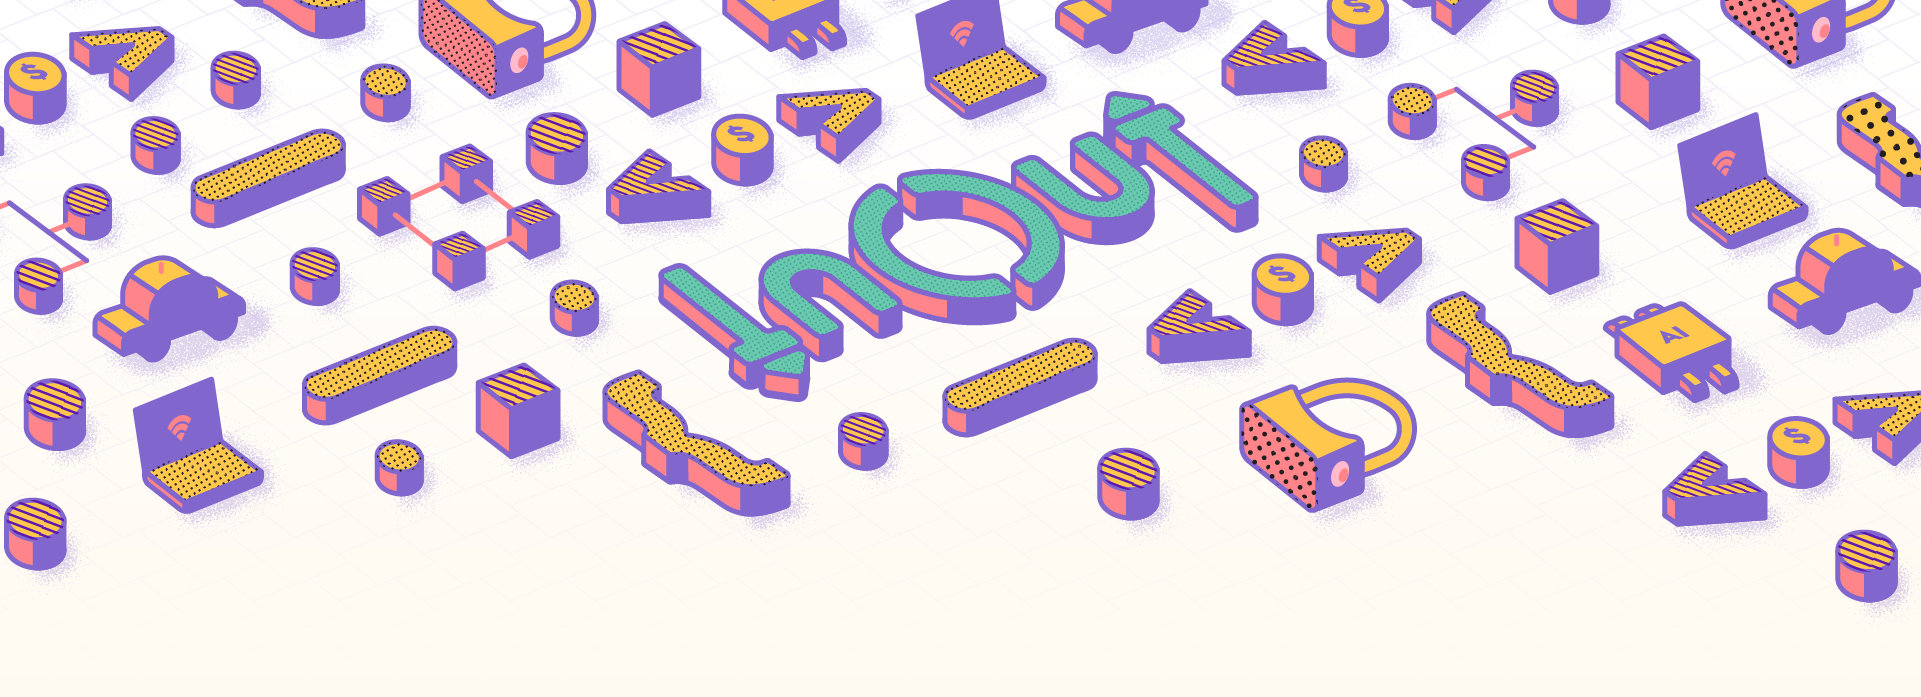
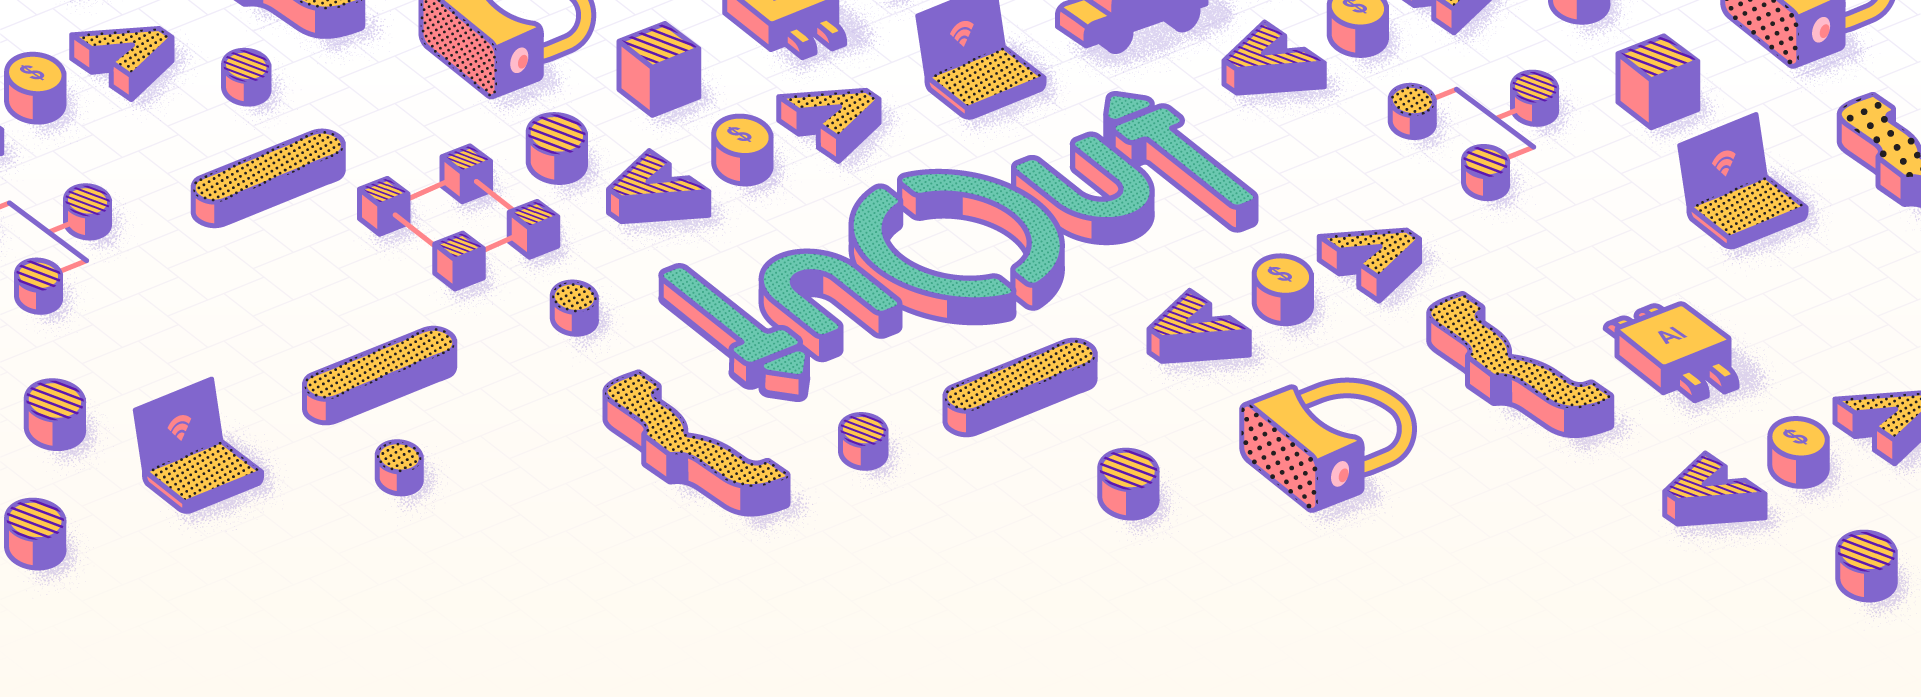
:sparkles: Animated hero: Assets and basic styling

diff --git a/src/index.html b/src/index.html
@@ -60,8 +60,18 @@
   <!-- Hero -->
   <header id="header">
     <div class="hero-image">
-      <img src="img/hero@mobile.png" alt="InOut Hero Image" class="img-fluid d-block d-lg-none" />
-      <div id="heroImage" class="d-none d-lg-block"></div>
+      <img src="img/hero-mobile.png" alt="InOut Hero Image" class="img-fluid d-block d-lg-none" />
+      <div id="heroImage" class="d-none d-lg-block">
+        <img src="img/hero.png" alt="Hero Image" class="img-fluid" />
+        <img id="c1" src="img/art-circle-1.png" alt="circle" class="art-item circle" />
+        <img id="c2" src="img/art-circle-1.png" alt="circle" class="art-item circle" />
+        <img id="c3" src="img/art-circle-2.png" alt="circle" class="art-item circle" />
+        <img id="c4" src="img/art-circle-2.png" alt="circle" class="art-item circle" />
+        <img id="b1" src="img/art-box.png" alt="box" class="art-item box" />
+        <img id="b1" src="img/art-box.png" alt="box" class="art-item box" />
+        <img id="car1" src="img/art-car.png" alt="car" class="art-item car" />
+        <img id="car2" src="img/art-car.png" alt="car" class="art-item car" />
+      </div>
     </div>
     <div class="container">
       <div class="d-flex justify-content-center flex-column flex-md-row align-items-center">
@@ -426,7 +436,8 @@
               <div class="card-body pt-2">
                 Not to worry, most people don’t! We’ll have team formation and ideation events geared towards helping you find people to
                 work with. You can join our
-                <a href="https://www.facebook.com/groups/inoutconnect/" target="_blank">Facebook Group</a> to find potential teammates.
+                <a href="https://www.facebook.com/groups/inoutconnect/" target="_blank">Facebook Group</a> to find potential
+                teammates.
               </div>
             </div>
           </div>
@@ -468,8 +479,8 @@
               <div class="card-body pt-2">
                 If you're looking to be a volunteer or mentor (i.e. someone with technical skills who'd be willing to help out participants
                 during the weekend), you should reach out to us at
-                <a href="mailto:volunteer@hackinout.co">volunteer@hackinout.co</a>. If your company is interested in becoming a sponsor, check out the sponsorship
-                section below.
+                <a href="mailto:volunteer@hackinout.co">volunteer@hackinout.co</a>. If your company is interested in becoming
+                a sponsor, check out the sponsorship section below.
               </div>
             </div>
           </div>

diff --git a/src/scss/_header.scss b/src/scss/_header.scss
@@ -1,39 +1,9 @@
 header {
-  background-color: $pink-light;
+  background-color: #fffbf3;
   padding-bottom: 96px;
 
   .hero-image {
     margin-bottom: -56px;
-
-    #heroImage {
-      background: url("../img/hero.png");
-      background-repeat: no-repeat;
-      background-position: center;
-      width: 100%;
-      height: 697px;
-    }
-
-    @media (max-width: 576px) {
-      margin-bottom: -24px;
-    }
-
-    @media (min-width: 992px) {
-      margin-bottom: -72px;
-    }
-
-    // Retina Display
-    @media only screen and (-webkit-min-device-pixel-ratio: 1.25),
-      only screen and (min--moz-device-pixel-ratio: 1.25),
-      only screen and (-o-min-device-pixel-ratio: 1.25/1),
-      only screen and (min-device-pixel-ratio: 1.25),
-      only screen and (min-resolution: 200dpi),
-      only screen and (min-resolution: 1.25dppx) {
-      margin-bottom: -112px;
-      #heroImage {
-        background: url("../img/hero@2x.png");
-        height: 1541px;
-      }
-    }
   }
 
   .header-text {
@@ -47,6 +17,67 @@ header {
       font-weight: bold;
       letter-spacing: 5px;
       text-transform: uppercase;
+    }
+  }
+
+  #heroImage {
+    position: relative;
+
+    .art-item {
+      position: absolute;
+      height: auto;
+
+      &.circle {
+        width: 4.5%;
+      }
+
+      &.box {
+        width: 6.5%;
+      }
+
+      &.car {
+        width: 11%;
+      }
+    }
+
+    #c1 {
+      top: 15%;
+      left: 8%;
+    }
+
+    #c2 {
+      top: 30%;
+      left: 14%;
+    }
+
+    #c3 {
+      top: 4%;
+      left: 18%;
+    }
+
+    #c4 {
+      top: 21%;
+      left: 70%;
+    }
+
+    #b1 {
+      top: 54%;
+      left: 24.5%;
+    }
+
+    #b2 {
+      top: 29%;
+      left: 77%;
+    }
+
+    #car1 {
+      top: 38%;
+      left: 3%;
+    }
+
+    #car2 {
+      top: 32%;
+      left: 89%;
     }
   }
 }
